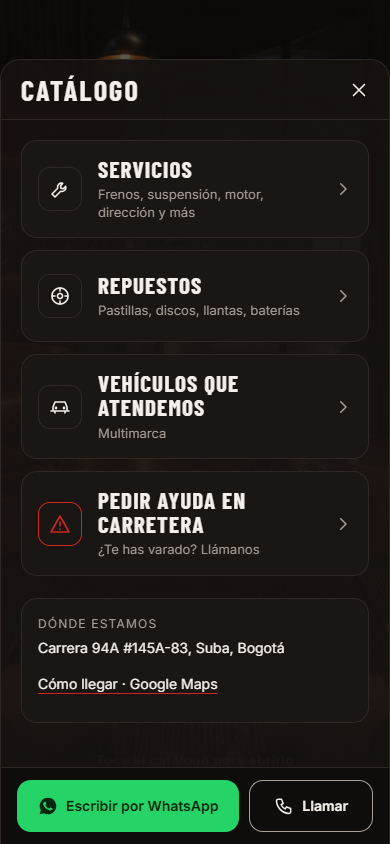
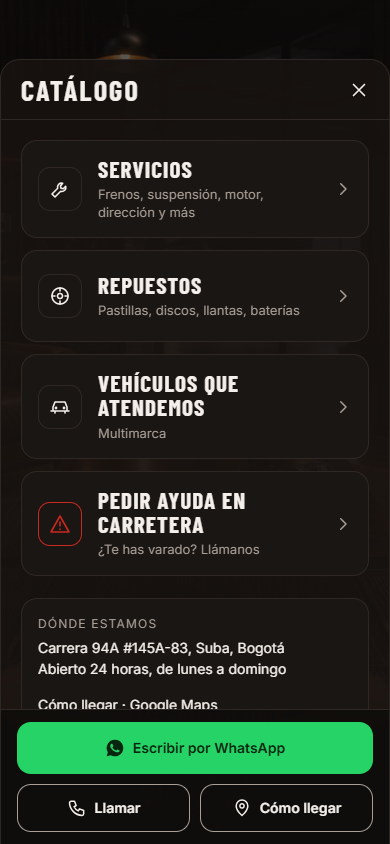
WhatsApp 3144852891 en la misma página, Cómo llegar en todas las secciones, botones flotantes, 10 marcas + Otro, apertura del clip sin tapar la cinemática

Changed region(s): [[0.0308, 0.7701, 0.9538, 0.9858]]

diff --git a/index.html b/index.html
@@ -27,6 +27,9 @@
   "@type": "AutoRepair",
   "name": "Los Boyacos",
   "description": "Servicio automotriz multimarca en Suba, Bogotá.",
+  "url": "https://losboyacos.com",
+  "telephone": "+573144852891",
+  "openingHoursSpecification": {"@type":"OpeningHoursSpecification","dayOfWeek":["Monday","Tuesday","Wednesday","Thursday","Friday","Saturday","Sunday"],"opens":"00:00","closes":"23:59"},
   "image": "assets/og.jpg",
   "address": {
     "@type": "PostalAddress",
@@ -37,7 +40,8 @@
   "contactPoint": {
     "@type": "ContactPoint",
     "contactType": "customer service",
-    "url": "https://wa.me/[WHATSAPP_NUMERO]"
+    "telephone": "+573144852891",
+    "url": "https://wa.me/573144852891"
   }
 }
 </script>
@@ -89,7 +93,7 @@ a{color:inherit;text-decoration:none}
 .bk-top .ibtn{background:rgba(14,12,11,.55);border:1px solid var(--border)}
 .bk-hint{position:absolute;left:0;right:0;top:calc(var(--sat) + 64px);text-align:center;font-size:13px;letter-spacing:.05em;color:var(--text);text-shadow:0 1px 8px #000;opacity:0;transition:opacity .4s}
 #book.ready .bk-hint{opacity:.9}
-#app[data-phase="open"] .bk-hint{opacity:0}
+#app[data-phase="open"] .bk-hint,#app[data-phase="open"] #book.ready #stage,#app[data-phase="open"] #book.ready .bk-bottom{opacity:0}
 #stage{position:absolute;left:0;top:0;width:720px;height:1280px;transform-origin:0 0;opacity:0;transition:opacity .35s;pointer-events:none}
 #book.ready #stage{opacity:1}
 #book.ready #stage.turning{opacity:0;transition-duration:.12s}
@@ -105,6 +109,15 @@ a{color:inherit;text-decoration:none}
 .pg li::before{content:"– ";color:var(--accent)}
 .pg p{font-size:23px;line-height:1.35;color:#d9d1c9}
 .pg .more{margin-top:4px;font-size:20px;letter-spacing:.06em;text-transform:uppercase;color:var(--text);border-bottom:2px solid var(--accent);padding-bottom:1px}
+.brands{list-style:none;display:flex;flex-wrap:wrap;gap:8px;margin:0 0 6px}
+.chip{min-height:44px;padding:0 16px;border:1px solid var(--border);border-radius:999px;background:var(--surface);font-size:14px}
+.chip[aria-pressed="true"]{border-color:var(--accent);background:#211a17}
+#otro-wrap{margin:6px 0 16px}
+#otro-wrap input{width:100%;min-height:48px;padding:0 14px;border-radius:12px;border:1px solid var(--text-2);background:var(--surface);color:var(--text);font:inherit;font-size:16px}
+#otro-wrap input:focus-visible{outline:2px solid var(--text);outline-offset:2px}
+.pg .brands{display:grid;grid-template-columns:1fr 1fr;gap:1px 10px;margin:2px 0 0}
+.pg .brands li{padding:0;border:0;background:none;border-radius:0;font-size:19px;line-height:1.25;color:#d9d1c9}
+.pg .brands li::before{content:"– ";color:var(--accent)}
 .pg:focus-visible{outline:4px solid var(--text);outline-offset:-4px}
 .bk-bottom{z-index:2;position:absolute;left:0;right:0;bottom:0;display:flex;flex-direction:column;gap:6px;opacity:0;transition:opacity .35s;pointer-events:none}
 #book.ready .bk-bottom{opacity:1}
@@ -114,7 +127,7 @@ a{color:inherit;text-decoration:none}
 .bk-nav button[aria-busy="true"]{opacity:.6}
 .bk-nav span{font-size:12px;letter-spacing:.14em;color:var(--text-2)}
 .bk-nav svg{width:16px;height:16px;stroke:currentColor;fill:none;stroke-width:2;stroke-linecap:round;stroke-linejoin:round}
-.dock{display:grid;grid-template-columns:1.8fr 1fr;gap:10px;padding:10px calc(16px + var(--sar)) calc(12px + var(--sab)) calc(16px + var(--sal));background:linear-gradient(to top,rgba(14,12,11,.92) 70%,rgba(14,12,11,0))}
+.dock{display:grid;grid-template-columns:1fr 1fr;gap:10px;padding:10px calc(16px + var(--sar)) calc(12px + var(--sab)) calc(16px + var(--sal));background:linear-gradient(to top,rgba(14,12,11,.92) 70%,rgba(14,12,11,0))}
 .layer[hidden]{display:none}
 #shade{position:absolute;inset:0;z-index:3;pointer-events:none;
   background:linear-gradient(to bottom,rgba(14,12,11,.78) 0,rgba(14,12,11,.35) 30%,rgba(14,12,11,0) 48%,rgba(14,12,11,0) 78%,rgba(14,12,11,.45) 100%)}
@@ -123,6 +136,16 @@ a{color:inherit;text-decoration:none}
 #loader{position:absolute;left:0;right:0;bottom:0;height:2px;z-index:9;background:transparent;transition:opacity .3s}
 #loader i{display:block;height:100%;width:0;background:var(--accent);transition:width .25s ease-out}
 #loader.done{opacity:0}
+
+/* botones flotantes: WhatsApp y ubicación (solo en el menú, antes del catálogo) */
+.fabs{position:absolute;z-index:6;right:calc(14px + var(--sar));bottom:calc(86px + var(--sab));display:flex;flex-direction:column;gap:12px;opacity:0;pointer-events:none;transform:translateY(8px);transition:opacity .5s ease,transform .5s ease}
+#app[data-phase="loop"] .fabs{opacity:1;pointer-events:auto;transform:none;transition-delay:.9s}
+.fab{width:56px;height:56px;border-radius:50%;display:grid;place-items:center;box-shadow:0 6px 20px rgba(0,0,0,.55)}
+.fab svg{width:28px;height:28px}
+.fab.wa{background:var(--wa);color:#06260f}
+.fab.wa svg{fill:currentColor}
+.fab.map{background:#1A1614;color:var(--text);border:1px solid var(--text-2)}
+.fab.map svg{fill:none;stroke:currentColor;stroke-width:1.8;stroke-linecap:round;stroke-linejoin:round}
 
 /* botón de entrada (fallback autoplay) */
 #enter{position:absolute;z-index:6;left:50%;bottom:calc(18% + var(--sab));transform:translateX(-50%);
@@ -196,6 +219,11 @@ a{color:inherit;text-decoration:none}
 /* botones */
 .btn{display:flex;align-items:center;justify-content:center;gap:8px;min-height:52px;padding:0 10px;border-radius:14px;font-weight:600;font-size:14px;line-height:1.15;width:100%}
 .btn svg{width:20px;height:20px;fill:currentColor;flex:none}
+.bar .btn.wa,.dock .btn.wa{grid-column:1/-1}
+.bar .btn.call,.bar .btn.map,.dock .btn.call,.dock .btn.map{min-height:48px}
+.btn.map{background:transparent;color:var(--text);border:1px solid var(--text-2)}
+.btn.map svg{fill:none;stroke:currentColor;stroke-width:1.8;stroke-linecap:round;stroke-linejoin:round}
+.btn .wl{min-width:0;overflow:hidden;text-overflow:ellipsis;white-space:nowrap}
 .btn.wa{background:var(--wa);color:#06260f}
 .btn.call{background:transparent;color:var(--text);border:1px solid var(--text-2)}
 .btn.call svg{fill:none;stroke:currentColor;stroke-width:1.8;stroke-linecap:round;stroke-linejoin:round}
@@ -203,7 +231,7 @@ a{color:inherit;text-decoration:none}
 .btn.primary svg{stroke:#fff}
 .stack{display:grid;gap:12px;margin-top:20px}
 
-.bar{flex:none;display:grid;grid-template-columns:1.8fr 1fr;gap:10px;padding:12px calc(16px + var(--sar)) calc(12px + var(--sab)) calc(16px + var(--sal));border-top:1px solid var(--border);background:rgba(14,12,11,.85)}
+.bar{flex:none;display:grid;grid-template-columns:1fr 1fr;gap:10px;padding:12px calc(16px + var(--sar)) calc(12px + var(--sab)) calc(16px + var(--sal));border-top:1px solid var(--border);background:rgba(14,12,11,.85)}
 .bar[hidden]{display:none}
 
 @media (prefers-reduced-motion:reduce){
@@ -232,6 +260,14 @@ a{color:inherit;text-decoration:none}
   </div>
   <div id="pulse" aria-hidden="true"></div>
   <p id="hint">Toca el catálogo para abrirlo</p>
+  <div class="fabs">
+    <a class="fab map" id="fab-map" target="_blank" rel="noopener" data-ev="ubicacion" data-src="flotante" aria-label="Cómo llegar: abrir ubicación en Google Maps" href="https://www.google.com/maps/search/?api=1&amp;query=Carrera+94A+%23145A-83%2C+Suba%2C+Bogot%C3%A1%2C+Colombia">
+      <svg viewBox="0 0 24 24" aria-hidden="true"><path d="M12 21s-7-6.2-7-11.5A7 7 0 0 1 19 9.500C19 14.800 12 21 12 21z"/><circle cx="12" cy="9.500" r="2.500"/></svg>
+    </a>
+    <a class="fab wa" id="fab-wa" data-wa data-ev="whatsapp" data-src="flotante" aria-label="Escribir por WhatsApp" href="https://wa.me/573144852891">
+      <svg viewBox="0 0 24 24" aria-hidden="true"><path d="M12 2a10 10 0 0 0-8.6 15.1L2 22l5-1.3A10 10 0 1 0 12 2zm5.2 14c-.2.6-1.300 1.200-1.800 1.200-.5.100-1 .2-3.300-.7-2.800-1.100-4.600-4-4.700-4.200-.1-.2-1.100-1.500-1.100-2.800s.7-2 1-2.300c.2-.3.500-.3.700-.3h.5c.2 0 .4 0 .6.500l.8 2c.1.200.1.300 0 .5l-.4.600-.4.400c-.1.200-.3.300-.1.600.2.300.8 1.300 1.700 2.100 1.200 1 2.100 1.300 2.400 1.500.3.100.5.100.6-.1l.9-1c.2-.3.400-.2.600-.1l2 1c.3.100.5.200.5.300.1.200.1.800-.1 1.300z"/></svg>
+    </a>
+  </div>
   <button id="enter" type="button" hidden>Toca para entrar</button>
   <div id="loader" role="progressbar" aria-label="Cargando" aria-valuemin="0" aria-valuemax="100"><i></i></div>
 
@@ -257,6 +293,7 @@ a{color:inherit;text-decoration:none}
       <button class="pg" type="button" data-spread="2" data-view="vehiculos" aria-label="Vehículos que atendemos">
         <h3>Vehículos que atendemos</h3><i class="rule"></i>
         <p>Multimarca: atendemos todo tipo de carros.</p>
+        <ul class="brands"><li>Kia</li><li>Renault</li><li>Toyota</li><li>Mazda</li><li>Chevrolet</li><li>Suzuki</li><li>Nissan</li><li>Hyundai</li><li>Volkswagen</li><li>BYD</li><li>Otro</li></ul>
         <span class="more">Ver más ›</span>
       </button>
       <button class="pg" type="button" data-spread="2" data-view="ayuda" aria-label="Pedir ayuda en carretera">
@@ -272,14 +309,13 @@ a{color:inherit;text-decoration:none}
         <button type="button" id="next" aria-label="Página siguiente">Siguiente<svg viewBox="0 0 24 24" aria-hidden="true"><path d="M9 5l7 7-7 7"/></svg></button>
       </div>
       <div class="dock">
-        <a class="btn wa" data-wa data-ev="whatsapp" data-src="catalogo" target="_blank" rel="noopener" href="https://wa.me/[WHATSAPP_NUMERO]">
-          <svg viewBox="0 0 24 24" aria-hidden="true"><path d="M12 2a10 10 0 0 0-8.6 15.1L2 22l5-1.3A10 10 0 1 0 12 2zm5.2 14c-.2.6-1.300 1.200-1.800 1.200-.5.100-1 .2-3.300-.7-2.800-1.100-4.600-4-4.700-4.200-.1-.2-1.100-1.500-1.100-2.800s.7-2 1-2.300c.2-.3.500-.3.700-.3h.5c.2 0 .4 0 .6.500l.8 2c.1.200.1.300 0 .5l-.4.600-.4.400c-.1.200-.3.300-.1.600.2.300.8 1.300 1.700 2.100 1.200 1 2.100 1.300 2.400 1.500.3.100.5.100.6-.1l.9-1c.2-.3.400-.2.600-.1l2 1c.3.100.5.200.5.300.1.200.1.800-.1 1.300z"/></svg>
-          Escribir por WhatsApp
-        </a>
-        <a class="btn call" data-call data-ev="llamar" data-src="catalogo" href="tel:[TELEFONO]">
+        <a class="btn wa" data-wa data-ev="whatsapp" data-src="catalogo" href="https://wa.me/573144852891">
+          <svg viewBox="0 0 24 24" aria-hidden="true"><path d="M12 2a10 10 0 0 0-8.6 15.1L2 22l5-1.3A10 10 0 1 0 12 2zm5.2 14c-.2.6-1.300 1.200-1.800 1.200-.5.100-1 .2-3.300-.7-2.800-1.100-4.600-4-4.700-4.200-.1-.2-1.100-1.500-1.100-2.800s.7-2 1-2.300c.2-.3.500-.3.700-.3h.5c.2 0 .4 0 .6.500l.8 2c.1.200.1.300 0 .5l-.4.600-.4.400c-.1.200-.3.300-.1.600.2.300.8 1.300 1.700 2.100 1.200 1 2.100 1.300 2.400 1.500.3.100.5.100.6-.1l.9-1c.2-.3.400-.2.600-.1l2 1c.3.100.5.200.5.300.1.200.1.800-.1 1.300z"/></svg><span class="wl">Escribir por WhatsApp</span></a>
+        <a class="btn call" data-call data-ev="llamar" data-src="catalogo" href="tel:+573144852891">
           <svg viewBox="0 0 24 24" aria-hidden="true"><path d="M5 4h4l2 5-2.5 1.5a11 11 0 0 0 5 5L15 13l5 2v4a2 2 0 0 1-2 2A16 16 0 0 1 3 6a2 2 0 0 1 2-2z"/></svg>
           Llamar
         </a>
+        <a class="btn map" data-ev="como_llegar" data-src="catalogo" target="_blank" rel="noopener" href="https://www.google.com/maps/search/?api=1&amp;query=Carrera+94A+%23145A-83%2C+Suba%2C+Bogot%C3%A1%2C+Colombia"><svg viewBox="0 0 24 24" aria-hidden="true"><path d="M12 21s-7-6.2-7-11.5A7 7 0 0 1 19 9.500C19 14.800 12 21 12 21z"/><circle cx="12" cy="9.500" r="2.500"/></svg>Cómo llegar</a>
       </div>
     </div>
   </section>
@@ -324,7 +360,8 @@ a{color:inherit;text-decoration:none}
         <div class="addr">
           <span>Dónde estamos</span>
           Carrera 94A #145A-83, Suba, Bogotá
-          <br><a class="map" id="map1" target="_blank" rel="noopener" href="https://www.google.com/maps/search/?api=1&amp;query=Carrera+94A+%23145A-83+Suba+Bogot%C3%A1">Cómo llegar · Google Maps</a>
+          <br>Abierto 24 horas, de lunes a domingo
+          <br><a class="map" id="map1" target="_blank" rel="noopener" href="https://www.google.com/maps/search/?api=1&amp;query=Carrera+94A+%23145A-83%2C+Suba%2C+Bogot%C3%A1%2C+Colombia">Cómo llegar · Google Maps</a>
         </div>
       </div>
 
@@ -356,11 +393,14 @@ a{color:inherit;text-decoration:none}
       <div class="view" id="v-vehiculos" data-title="Vehículos" data-ctx="la atención de mi vehículo" hidden>
         <h3 class="big">Multimarca</h3>
         <i class="bar-accent"></i>
-        <p class="lead" style="font-size:16px;color:var(--text)">Atendemos todo tipo de carros.</p>
+        <p class="lead" style="font-size:16px;color:var(--text)">Atendemos todo tipo de carros, entre ellos las marcas más comunes en Colombia:</p>
+        <ul class="brands" id="brand-chips"><li><button class="chip" type="button" aria-pressed="false" data-b="Kia">Kia</button></li><li><button class="chip" type="button" aria-pressed="false" data-b="Renault">Renault</button></li><li><button class="chip" type="button" aria-pressed="false" data-b="Toyota">Toyota</button></li><li><button class="chip" type="button" aria-pressed="false" data-b="Mazda">Mazda</button></li><li><button class="chip" type="button" aria-pressed="false" data-b="Chevrolet">Chevrolet</button></li><li><button class="chip" type="button" aria-pressed="false" data-b="Suzuki">Suzuki</button></li><li><button class="chip" type="button" aria-pressed="false" data-b="Nissan">Nissan</button></li><li><button class="chip" type="button" aria-pressed="false" data-b="Hyundai">Hyundai</button></li><li><button class="chip" type="button" aria-pressed="false" data-b="Volkswagen">Volkswagen</button></li><li><button class="chip" type="button" aria-pressed="false" data-b="BYD">BYD</button></li><li><button class="chip" type="button" aria-pressed="false" data-other>Otro</button></li></ul>
+        <div id="otro-wrap" hidden><label class="lead" for="otro-marca">Escribe la marca de tu carro</label><input id="otro-marca" type="text" maxlength="30" autocomplete="off" autocapitalize="words" placeholder="Ej: Peugeot"></div>
         <div class="addr">
           <span>Dónde estamos</span>
           Carrera 94A #145A-83, Suba, Bogotá
-          <br><a class="map" id="map2" target="_blank" rel="noopener" href="https://www.google.com/maps/search/?api=1&amp;query=Carrera+94A+%23145A-83+Suba+Bogot%C3%A1">Cómo llegar · Google Maps</a>
+          <br>Abierto 24 horas, de lunes a domingo
+          <br><a class="map" id="map2" target="_blank" rel="noopener" href="https://www.google.com/maps/search/?api=1&amp;query=Carrera+94A+%23145A-83%2C+Suba%2C+Bogot%C3%A1%2C+Colombia">Cómo llegar · Google Maps</a>
         </div>
       </div>
 
@@ -369,27 +409,25 @@ a{color:inherit;text-decoration:none}
         <i class="bar-accent"></i>
         <p class="lead" style="font-size:18px;color:var(--text)">Llámanos de inmediato.</p>
         <div class="stack">
-          <a class="btn primary" data-call data-ev="llamar" data-src="ayuda_carretera" href="tel:[TELEFONO]">
+          <a class="btn primary" data-call data-ev="llamar" data-src="ayuda_carretera" href="tel:+573144852891">
             <svg viewBox="0 0 24 24" aria-hidden="true"><path d="M5 4h4l2 5-2.5 1.5a11 11 0 0 0 5 5L15 13l5 2v4a2 2 0 0 1-2 2A16 16 0 0 1 3 6a2 2 0 0 1 2-2z"/></svg>
             Llamar ahora
           </a>
-          <a class="btn wa" data-wa data-ev="whatsapp" data-src="ayuda_carretera" target="_blank" rel="noopener" href="https://wa.me/[WHATSAPP_NUMERO]">
-            <svg viewBox="0 0 24 24" aria-hidden="true"><path d="M12 2a10 10 0 0 0-8.6 15.1L2 22l5-1.3A10 10 0 1 0 12 2zm5.2 14c-.2.6-1.300 1.200-1.800 1.200-.5.100-1 .2-3.300-.7-2.800-1.100-4.600-4-4.700-4.200-.1-.2-1.100-1.500-1.100-2.800s.7-2 1-2.300c.2-.3.500-.3.700-.3h.5c.2 0 .4 0 .6.500l.8 2c.1.200.1.300 0 .5l-.4.600-.4.400c-.1.200-.3.300-.1.600.2.300.8 1.300 1.700 2.100 1.200 1 2.100 1.300 2.400 1.500.3.100.5.100.6-.1l.9-1c.2-.3.400-.2.600-.1l2 1c.3.100.5.200.5.300.1.200.1.800-.1 1.300z"/></svg>
-            Escribir por WhatsApp
-          </a>
+          <a class="btn wa" data-wa data-ev="whatsapp" data-src="ayuda_carretera" href="https://wa.me/573144852891">
+            <svg viewBox="0 0 24 24" aria-hidden="true"><path d="M12 2a10 10 0 0 0-8.6 15.1L2 22l5-1.3A10 10 0 1 0 12 2zm5.2 14c-.2.6-1.300 1.200-1.800 1.200-.5.100-1 .2-3.300-.7-2.800-1.100-4.600-4-4.700-4.200-.1-.2-1.100-1.500-1.100-2.800s.7-2 1-2.300c.2-.3.500-.3.700-.3h.5c.2 0 .4 0 .6.500l.8 2c.1.200.1.300 0 .5l-.4.600-.4.400c-.1.200-.3.300-.1.600.2.300.8 1.300 1.700 2.100 1.200 1 2.100 1.300 2.400 1.500.3.100.5.100.6-.1l.9-1c.2-.3.400-.2.600-.1l2 1c.3.100.5.200.5.300.1.200.1.800-.1 1.300z"/></svg><span class="wl">Escribir por WhatsApp</span></a>
+          <a class="btn map" data-ev="como_llegar" data-src="ayuda_carretera" target="_blank" rel="noopener" href="https://www.google.com/maps/search/?api=1&amp;query=Carrera+94A+%23145A-83%2C+Suba%2C+Bogot%C3%A1%2C+Colombia"><svg viewBox="0 0 24 24" aria-hidden="true"><path d="M12 21s-7-6.2-7-11.5A7 7 0 0 1 19 9.500C19 14.800 12 21 12 21z"/><circle cx="12" cy="9.500" r="2.500"/></svg>Cómo llegar</a>
         </div>
       </div>
     </div>
 
     <footer class="bar" id="bar">
-      <a class="btn wa" id="bar-wa" data-wa data-ev="whatsapp" target="_blank" rel="noopener" href="https://wa.me/[WHATSAPP_NUMERO]">
-        <svg viewBox="0 0 24 24" aria-hidden="true"><path d="M12 2a10 10 0 0 0-8.6 15.1L2 22l5-1.3A10 10 0 1 0 12 2zm5.2 14c-.2.6-1.300 1.200-1.800 1.200-.5.100-1 .2-3.300-.7-2.800-1.100-4.600-4-4.700-4.200-.1-.2-1.100-1.500-1.100-2.800s.7-2 1-2.300c.2-.3.500-.3.700-.3h.5c.2 0 .4 0 .6.500l.8 2c.1.200.1.300 0 .5l-.4.600-.4.400c-.1.200-.3.300-.1.600.2.300.8 1.300 1.700 2.100 1.200 1 2.100 1.300 2.400 1.500.3.100.5.100.6-.1l.9-1c.2-.3.400-.2.600-.1l2 1c.3.100.5.200.5.300.1.200.1.800-.1 1.300z"/></svg>
-        Escribir por WhatsApp
-      </a>
-      <a class="btn call" id="bar-call" data-call data-ev="llamar" href="tel:[TELEFONO]">
+      <a class="btn wa" id="bar-wa" data-wa data-ev="whatsapp" href="https://wa.me/573144852891">
+        <svg viewBox="0 0 24 24" aria-hidden="true"><path d="M12 2a10 10 0 0 0-8.6 15.1L2 22l5-1.3A10 10 0 1 0 12 2zm5.2 14c-.2.6-1.300 1.200-1.800 1.200-.5.100-1 .2-3.300-.7-2.800-1.100-4.600-4-4.700-4.200-.1-.2-1.100-1.500-1.100-2.800s.7-2 1-2.300c.2-.3.500-.3.700-.3h.5c.2 0 .4 0 .6.500l.8 2c.1.200.1.300 0 .5l-.4.600-.4.400c-.1.200-.3.300-.1.600.2.300.8 1.300 1.700 2.100 1.200 1 2.100 1.300 2.400 1.500.3.100.5.100.6-.1l.9-1c.2-.3.400-.2.600-.1l2 1c.3.100.5.200.5.300.1.200.1.800-.1 1.300z"/></svg><span class="wl">Escribir por WhatsApp</span></a>
+      <a class="btn call" id="bar-call" data-call data-ev="llamar" href="tel:+573144852891">
         <svg viewBox="0 0 24 24" aria-hidden="true"><path d="M5 4h4l2 5-2.5 1.5a11 11 0 0 0 5 5L15 13l5 2v4a2 2 0 0 1-2 2A16 16 0 0 1 3 6a2 2 0 0 1 2-2z"/></svg>
         Llamar
       </a>
+        <a class="btn map" data-ev="como_llegar" data-src="hoja" target="_blank" rel="noopener" href="https://www.google.com/maps/search/?api=1&amp;query=Carrera+94A+%23145A-83%2C+Suba%2C+Bogot%C3%A1%2C+Colombia"><svg viewBox="0 0 24 24" aria-hidden="true"><path d="M12 21s-7-6.2-7-11.5A7 7 0 0 1 19 9.500C19 14.800 12 21 12 21z"/><circle cx="12" cy="9.500" r="2.500"/></svg>Cómo llegar</a>
     </footer>
   </section>
 </main>
@@ -399,8 +437,8 @@ a{color:inherit;text-decoration:none}
 'use strict';
 
 /* ====== VARIABLES PENDIENTES (el cliente las entrega) ====== */
-var WHATSAPP_NUMERO = '[WHATSAPP_NUMERO]'; // solo dígitos con indicativo, ej: 573001234567
-var TELEFONO        = '[TELEFONO]';        // ej: +573001234567
+var WHATSAPP_NUMERO = '573144852891'; // solo dígitos con indicativo (Colombia +57)
+var TELEFONO        = '+573144852891';
 /* ========================================================== */
 
 var $ = function(s,r){return (r||document).querySelector(s)};
@@ -425,14 +463,18 @@ function track(name,params){
 /* ---------- enlaces ---------- */
 var ctxLabel={book:'sus servicios',home:'sus servicios',servicios:'sus servicios',repuestos:'repuestos',vehiculos:'la atención de mi vehículo',ayuda:'asistencia en carretera'};
 function waHref(servicio){
-  var msg='Hola Los Boyacos, vi su página y quiero información sobre '+servicio;
+  var msg='Hola Los Boyacos, vi su página y quiero información sobre '+servicio+'. ¿Me pueden ayudar?';
   return 'https://wa.me/'+encodeURIComponent(WHATSAPP_NUMERO)+'?text='+encodeURIComponent(msg);
 }
-function topic(view){ return picks[view] || ctxLabel[view]; }
+var lastPick=null, labels={}, lastLabel=null;
+function topic(view){ return (view==='book'?lastPick:picks[view]) || ctxLabel[view]; }
+function shortTopic(t){ return t.length>26? t.slice(0,25)+'…' : t; }
 function refreshLinks(){
   $$('[data-wa]').forEach(function(a){
     var v=a.closest('.view'); var key=v?v.id.slice(2):(a.closest('#book')?'book':current);
     a.href=waHref(topic(key));
+    var pk=key==='book'?lastLabel:(labels[key]||picks[key]), wl=a.querySelector('.wl');
+    if(wl) wl.textContent = pk ? 'Consultar: '+shortTopic(pk) : 'Escribir por WhatsApp';
   });
   $$('[data-call]').forEach(function(a){ a.href='tel:'+TELEFONO; });
 }
@@ -465,17 +507,38 @@ $$('[data-pick]').forEach(function(ul){
     var key=ul.closest('.view').id.slice(2);
     var on=b.getAttribute('aria-pressed')==='true';
     $$('.item',ul).forEach(function(x){x.setAttribute('aria-pressed','false')});
-    if(on){delete picks[key]} else {b.setAttribute('aria-pressed','true'); picks[key]=b.dataset.v}
+    if(on){delete picks[key]; delete labels[key]; lastPick=lastLabel=null;} else {b.setAttribute('aria-pressed','true'); picks[key]=b.dataset.v; labels[key]=b.dataset.v; lastPick=lastLabel=b.dataset.v;}
     refreshLinks();
   });
 });
+
+/* ---------- Multimarca: elegir marca u "Otro" y escribirla ---------- */
+(function(){
+  var chips=$('#brand-chips'), wrap=$('#otro-wrap'), inp=$('#otro-marca');
+  function setBrand(name){
+    if(name){ picks.vehiculos='la atención de mi vehículo '+name; labels.vehiculos=name; lastPick=picks.vehiculos; lastLabel=name; }
+    else { delete picks.vehiculos; delete labels.vehiculos; lastPick=lastLabel=null; }
+    refreshLinks();
+  }
+  chips.addEventListener('click',function(e){
+    var b=e.target.closest('.chip'); if(!b) return;
+    var on=b.getAttribute('aria-pressed')==='true';
+    $$('.chip',chips).forEach(function(x){ x.setAttribute('aria-pressed','false'); });
+    wrap.hidden=true;
+    if(on){ setBrand(null); return; }
+    b.setAttribute('aria-pressed','true');
+    if(b.hasAttribute('data-other')){ wrap.hidden=false; inp.focus({preventScroll:false}); setBrand(inp.value.trim()||null); }
+    else setBrand(b.dataset.b);
+  });
+  inp.addEventListener('input',function(){ setBrand(inp.value.trim().slice(0,30)||null); });
+})();
 
 /* ---------- catálogo interactivo ----------
    El video ES el libro. Tramos: C (agarra y abre en la 1.ª doble), D (pasa la página), E (D al revés).
    Cada tramo termina en un fotograma fijo; el catálogo HTML se proyecta con perspectiva sobre esas hojas.
    Fases: loop → opening → book (pág. 1 o 2) ↔ turning ; open = hoja de detalle ; sin video: hoja con tarjetas. */
 var vD=$('#vD'), vE=$('#vE'), book=$('#book'), stage=$('#stage'), prevB=$('#prev'), nextB=$('#next'), dots=$('#dots');
-var pg=1, bookActive=false, sheetFromBook=false, guardT=0;
+var pg=1, bookActive=false, sheetFromBook=false, guardT=0, waitT=0;
 
 /* Esquinas de cada hoja en el cuadro del video (720×1280): TL, TR, BR, BL; i = recorte útil [u0,v0,u1,v1] */
 var SPREADS={
@@ -530,15 +593,28 @@ function openCatalog(){                // toque desde el loop
   try{ navigator.vibrate && navigator.vibrate(10); }catch(e){}
   lastFocus=document.activeElement;
   invite.classList.remove('on'); hint.classList.remove('on'); pulse.classList.remove('on');
-  if(staticMode||!vready(vC)||!vready(vD)||!vready(vE)){ sheetFromBook=false; openSheet('home'); return; }
+  if(staticMode||!vC.src){ sheetFromBook=false; openSheet('home'); return; }   // sin video: hoja con tarjetas
   bookActive=true; pg=1; current='book'; refreshLinks();
   setPhase('opening');
   book.classList.add('on'); book.classList.remove('ready'); setActivePage(1,true);
   [vD,vE].forEach(function(v){ try{ v.pause(); v.currentTime=0; }catch(e){} });
-  playFrom(vC,function(){ enterPage(1); });
+  var start=function(){
+    clearTimeout(waitT); loader.classList.add('done');
+    if(phase!=='opening') return;
+    playFrom(vC,function(){ enterPage(1); });
+  };
+  if(vready(vC)){ start(); return; }
+  // el clip aún está bajando: se espera (barra fina) en vez de tapar la cinemática con la hoja
+  loader.classList.remove('done'); loader.firstElementChild.style.width='55%';
+  vC.addEventListener('canplay',start,{once:true});
+  waitT=setTimeout(function(){
+    if(phase!=='opening'||vready(vC)) return;
+    vC.removeEventListener('canplay',start); loader.classList.add('done');
+    bookActive=false; book.classList.remove('on'); setPhase('loop'); sheetFromBook=false; openSheet('home');
+  },10000);
 }
 function skipOpening(){
-  if(phase!=='opening') return;
+  if(phase!=='opening'||!vready(vC)||vC.paused) return;
   vC.onended=null; try{ vC.pause(); }catch(e){}
   var go=function(){ stack(vC); enterPage(1); guardBook(); };
   vC.addEventListener('seeked',go,{once:true});
@@ -608,7 +684,7 @@ function closeSheet(){
 function closeBook(){                  // vuelve al loop
   if(!bookActive) return;
   if(phase==='open') closeSheet();
-  bookActive=false; vC.onended=vD.onended=vE.onended=null;
+  bookActive=false; clearTimeout(waitT); vC.onended=vD.onended=vE.onended=null;
   stack(null); book.classList.remove('on','ready'); stage.classList.remove('turning');
   setTimeout(function(){ if(!bookActive) [vC,vD,vE].forEach(function(v){ try{v.pause()}catch(e){} }); },250);
   setPhase('loop'); showInvite(true);
